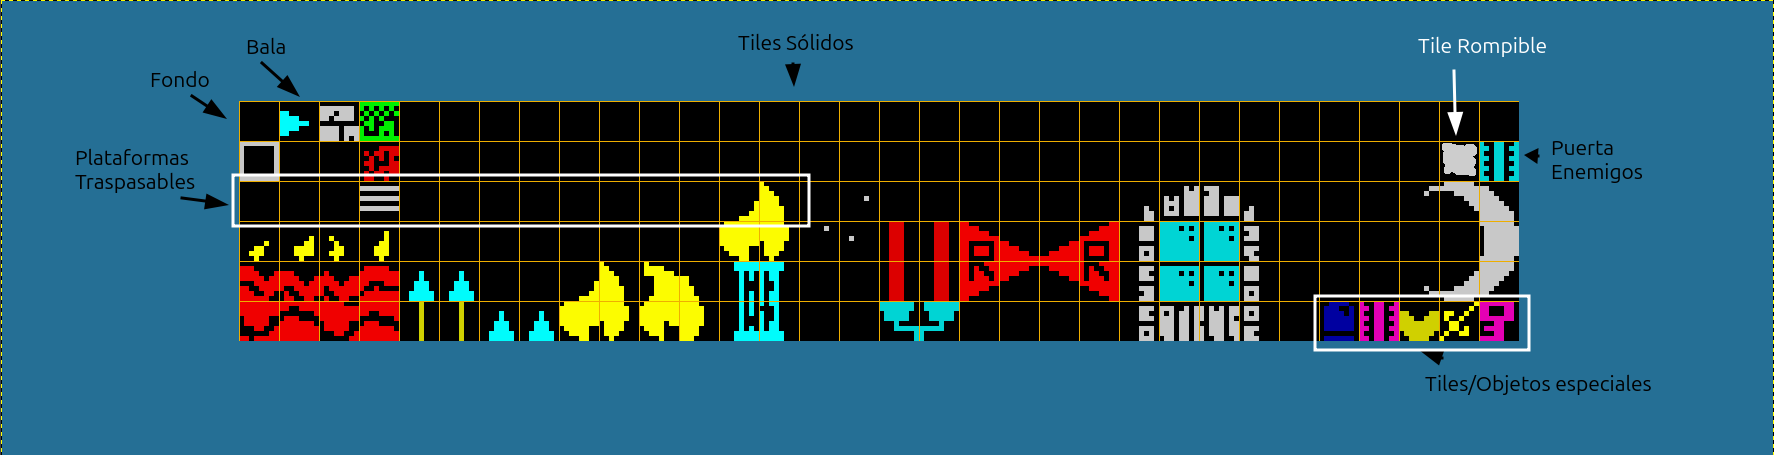
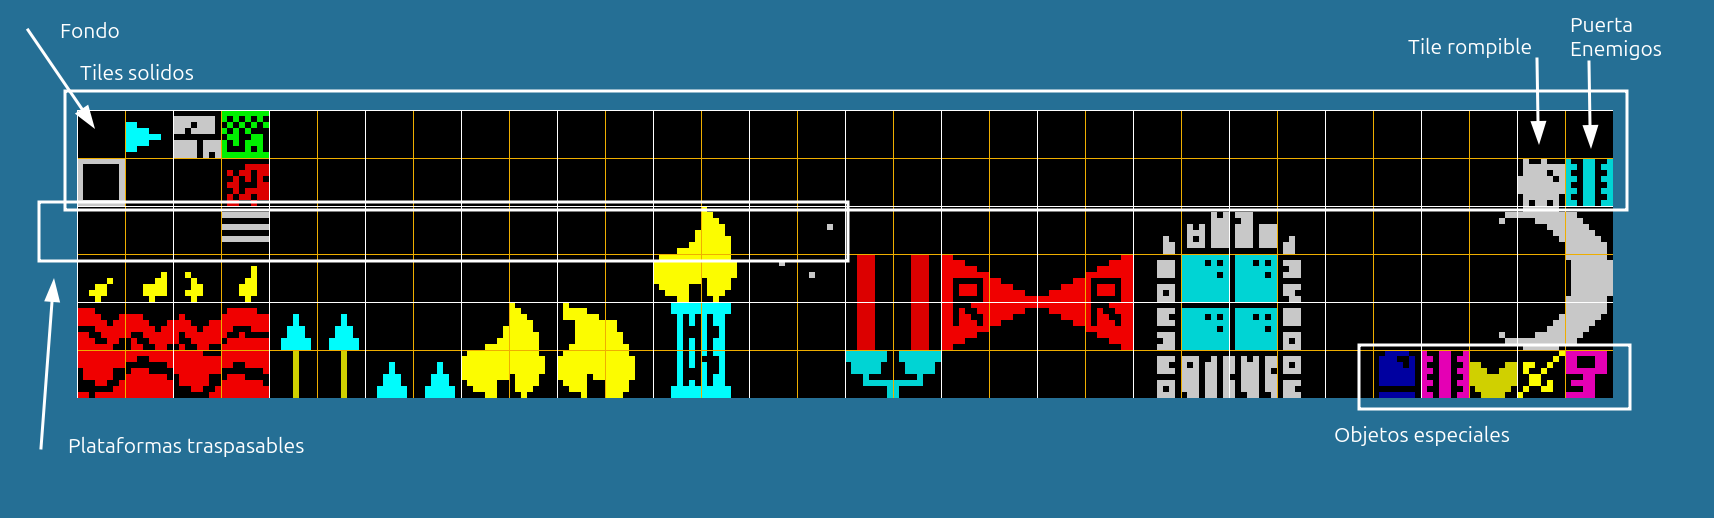
Add documentation for bullet images, release notes, and arcade mode design
- Created a new documentation page for bullet images detailing the creation and usage of a 32x8px sprite.
- Added release notes for the version dated 2025-03-28, highlighting new features, technical improvements, and embedded videos.
- Introduced a documentation page for designing arcade mode gameplay, outlining the mechanics and requirements for level design in Tiled.

diff --git a/pages/mydoc/mydoc_images_spriteset.md b/pages/mydoc/mydoc_images_spriteset.md
@@ -45,18 +45,17 @@ Los 16 sprites de la segunda fila se usarán para los enemigos, 2 para cada enem
 
 ![](./images/sprites_cenital.png)
 
-## Enemigos hacia la izquierda
-El motor si solo tienes 2 filas de sprites **generará los sprites de los enemigos automáticamente hacia la izquierda** debajo de lo que se han definido quedando de la siguiente manera:
+## Tercera fila. Enemigos hacia la izquierda
 
-![](./images/sprites_izquierda_automated.png)
+La tercera fila es para los enemigos cuando van hacia la izquierda. Si simplemente es el mismo sprite pero volteado a la izquierda puedes hacerlo facilmente con ZX Paintbrush.
 
-Si quieres customizar los enemigos hacia la izquierda lo único que tienes que hacer es añadir al PNG una fila más al spriteset, entonces el motor entenderá que prefieres definir tu el espejo de los sprites y no lo hará automáticamente. Por ejemplo en la siguiente imagen de manera manual hemos definido que el primer enemigo hacia la izquierda tiene el mismo sprite, por lo tanto no girará.
+* Seleccionas el sprite con la herramienta de selección de 16x16.
+* Copias (Ctrl+C) y pegas el sprite en la fila de abajo (Ctrl+V).
+* Después seleccionas la opción de menú Edit -> Flip Horizontally -> Flip Horizontal Pixels
 
-![](./images/sprites_izquierda_manual.png)
+![](./images/flip_horizontally.png)
 
-![](./images/sprites_izquierda_manual.gif)
-
-Para añadir una fila debajo del spriteset solo tendremos de aumentar el tamaño en altura de 32 a 48 diciendole que crezca hacía abajo. Para hacerlo desde ZX Paintbrush iremos al menú View -> Resize picture y en **Select dest. orientation** seleccionaremos la 2ª opción y en **height pondremos 48**
+Si vienes de una versión anterior donde no se definía una 3ª fila y no sabes como añadirla, solo tendremos de aumentar el tamaño en altura de 32 a 48 diciendole que crezca hacía abajo. Para hacerlo desde ZX Paintbrush iremos al menú View -> Resize picture y en **Select dest. orientation** seleccionaremos la 2ª opción y en **height pondremos 48**
 
 ![](./images/zx-paintbrush-resize-picture-menu.png)
 ![](./images/zx-paintbrush-resize-picture-options.png)

diff --git a/pages/mydoc/mydoc_images_tileset.md b/pages/mydoc/mydoc_images_tileset.md
@@ -17,8 +17,7 @@ ZX Spectrum Game Maker trabaja con tiles de 8x8px, en consecuencia tienes dispon
 Para crear tu tileset debes tener en cuenta algunas regla, recuerda que tienes uno de ejemplo para simplemente editarlo.
 
 * El **primer tile** está reservado para el **fondo**.
-* El **segundo tile** está reservado para **"la bala"** que disparará tu protagonista. El motor hace volteado horizontal automático para cuando disparas a un sentido u otro. Si tu "bala" tiene sentido solo tienes que diseñarla en este tile hacia la derecha.
-* Los **siguientes 62 tiles** serán considerados como **sólidos**, es decir, cuando lo coloques en tu mapa, el protagonista no podrá traspasarlos, son los típicos que se usan para paredes, plataformas... Puerta shouldKillEnemies. El último tile de los solidos seá considerada puerta que se abrirá cuando mates a todos los enemigos de esa habitación.
+* Los **siguientes 63 tiles** serán considerados como **sólidos**, es decir, cuando lo coloques en tu mapa, el protagonista no podrá traspasarlos, son los típicos que se usan para paredes, plataformas... Puerta shouldKillEnemies. El último tile de los solidos seá considerada puerta que se abrirá cuando mates a todos los enemigos de esa habitación. El penúltimo, si está activada la opción se considerará tile rompible.
 * Los **siguientes 16 tiles** serán considerados plataformas estáticas. Estas seran traspasables por el protagonirsta desde abajo.
 * Los **tiles restantes**, salvo los 5 últimos, serán considerados no sólidos. Si quieres añadir tiles que le causen daño al personaje principal tiene que estar en estos tiles.
 ** Los **Últimos 5 tiles** son tiles especiales para objetos cuyo funcionamiento se definira en Tiled.

diff --git a/pages/mydoc/mydoc_tiled_arcade_mode.md b/pages/mydoc/mydoc_tiled_arcade_mode.md
@@ -1,0 +1,24 @@
+---
+title: Diseñando el juego. Modo arcade
+tags: [documentation]
+keywords:
+summary: 
+sidebar: mydoc_sidebar
+permalink: mydoc_tiled_arcade_mode.html
+folder: mydoc
+---
+
+Si tienes activada la opción arcade la dinámica del juego será un pelín distinta:
+
+* Como suele ser habitual en los juegos arcade, hay que "pasarse" cada pantalla para pasar a la siguiente, no se puede ir a la pantalla siguiente y volver a la anterior como suele ser habitual en los juegos de plataformas.
+* Para diseñar las pantallas en Tiled lo haremos una detras de otra en una línea.
+* Para superar una pantalla habrá que recoger todos los items y cuando lo hayamos hecho aparacerá la llave que al cogerla nos llevará a la siguiente pantalla.
+* Se pueden añadir tantos items como se quiera en la pantalla.
+* Tendremos que definir en cada pantalla donde aparece el personaje (mainCharacter)
+* No es necesario definir suelo y paredes en la pantalla para limitar la misma, si el personaje atraviesa los límites, aparecerá en el lado opuesto.
+
+![](images/arcade_mode)
+
+<iframe width="560" height="315" src="https://www.youtube.com/embed/rYt84n_4cLQ?si=8WghiVBhmNC4WoWf" title="YouTube video player" frameborder="0" allow="accelerometer; autoplay; clipboard-write; encrypted-media; gyroscope; picture-in-picture; web-share" referrerpolicy="strict-origin-when-cross-origin" allowfullscreen></iframe>
+
+

diff --git a/pages/mydoc/mydoc_release_notes_2025_04_15.md b/pages/mydoc/mydoc_release_notes_2025_04_15.md
@@ -1,0 +1,29 @@
+---
+title: Release notes. 2025-03-28
+tags: [documentation]
+keywords:
+summary: 
+sidebar: mydoc_sidebar
+permalink: mydoc_release_notes_2025_03_28.html
+folder: mydoc
+---
+
+## Nuevas funcionalidades
+* Interfaz visual para todas las acciones del motor
+* Posibilidad de ver animación de sprites desde la interfaz visual.
+* Modo arcade
+* Hi score in game
+
+## Mejoras técnicas
+* Utilización de "preshited sprites" en la librería GuSprites con reducción de espación en la parte del código y en el banco de 128K
+* Refactor y limpeza del código
+
+## Videos
+
+### Interfaz visual
+<iframe width="560" height="315" src="https://www.youtube.com/embed/IPcWkfDhON8?si=iQM2f8GaWEcPDbsz" title="YouTube video player" frameborder="0" allow="accelerometer; autoplay; clipboard-write; encrypted-media; gyroscope; picture-in-picture; web-share" referrerpolicy="strict-origin-when-cross-origin" allowfullscreen></iframe>
+
+### Modo arcade
+<iframe width="560" height="315" src="https://www.youtube.com/embed/rYt84n_4cLQ?si=8WghiVBhmNC4WoWf" title="YouTube video player" frameborder="0" allow="accelerometer; autoplay; clipboard-write; encrypted-media; gyroscope; picture-in-picture; web-share" referrerpolicy="strict-origin-when-cross-origin" allowfullscreen></iframe>
+
+

diff --git a/pages/mydoc/mydoc_tiled_general_configuration.md b/pages/mydoc/mydoc_tiled_general_configuration.md
@@ -23,6 +23,7 @@ Propiedades personalizadas:
 * **animatePeriodEnemy**. Número más alto, animación de los enemigos más lenta.
 * **animatePeriodMain**. Número más alto, animación del personaje principal más lenta.
 * **animatePeriodTile**. Número más alto, animación de los tiles más lenta.
+* **arcadeMode**. Si esta propiedad está activada el juego se comportará en modo arcade. Puedes ver este comportamiento aqui.
 * **border**. Color del borde in game. Muy útil cuando se cambia el color de fondo del juego y del hud.
 * **bulletDistance**. Distancia que queramos que recorra la bala. El valor 0 se traduce como distancia infinita, la bala no parará hasta que choque con algún obstáculo. Si seteamos una distancia corta como de 2, da el efecto de que el personaje ataca con el arma a corta distancia como una espada.
 * **damageAmount**. Cuánto daño le hacen al personaje los enemigos.

diff --git a/pages/mydoc/mydoc_images_bullet.md b/pages/mydoc/mydoc_images_bullet.md
@@ -1,0 +1,21 @@
+---
+title: Imágenes base. Bullet (bala)
+tags: [documentation]
+keywords:
+summary: "Creación de la imagen que contendrá los sprites para pintar las balas"
+sidebar: mydoc_sidebar
+permalink: mydoc_images_bullet.html
+folder: mydoc
+---
+
+## Bullet (Bala)
+
+Tienes que crear (o editar) una imagen de 32x8px (assets/bullet.zxp) que se usará como bala.
+
+En este spritset podrás diseñar la bala en sus 2 sentidos (4 en vista cenital).
+
+Si el juego es de plataformas solo se utilizarán los dos primeros sprites.
+
+![](./images/bullet.png)
+
+
